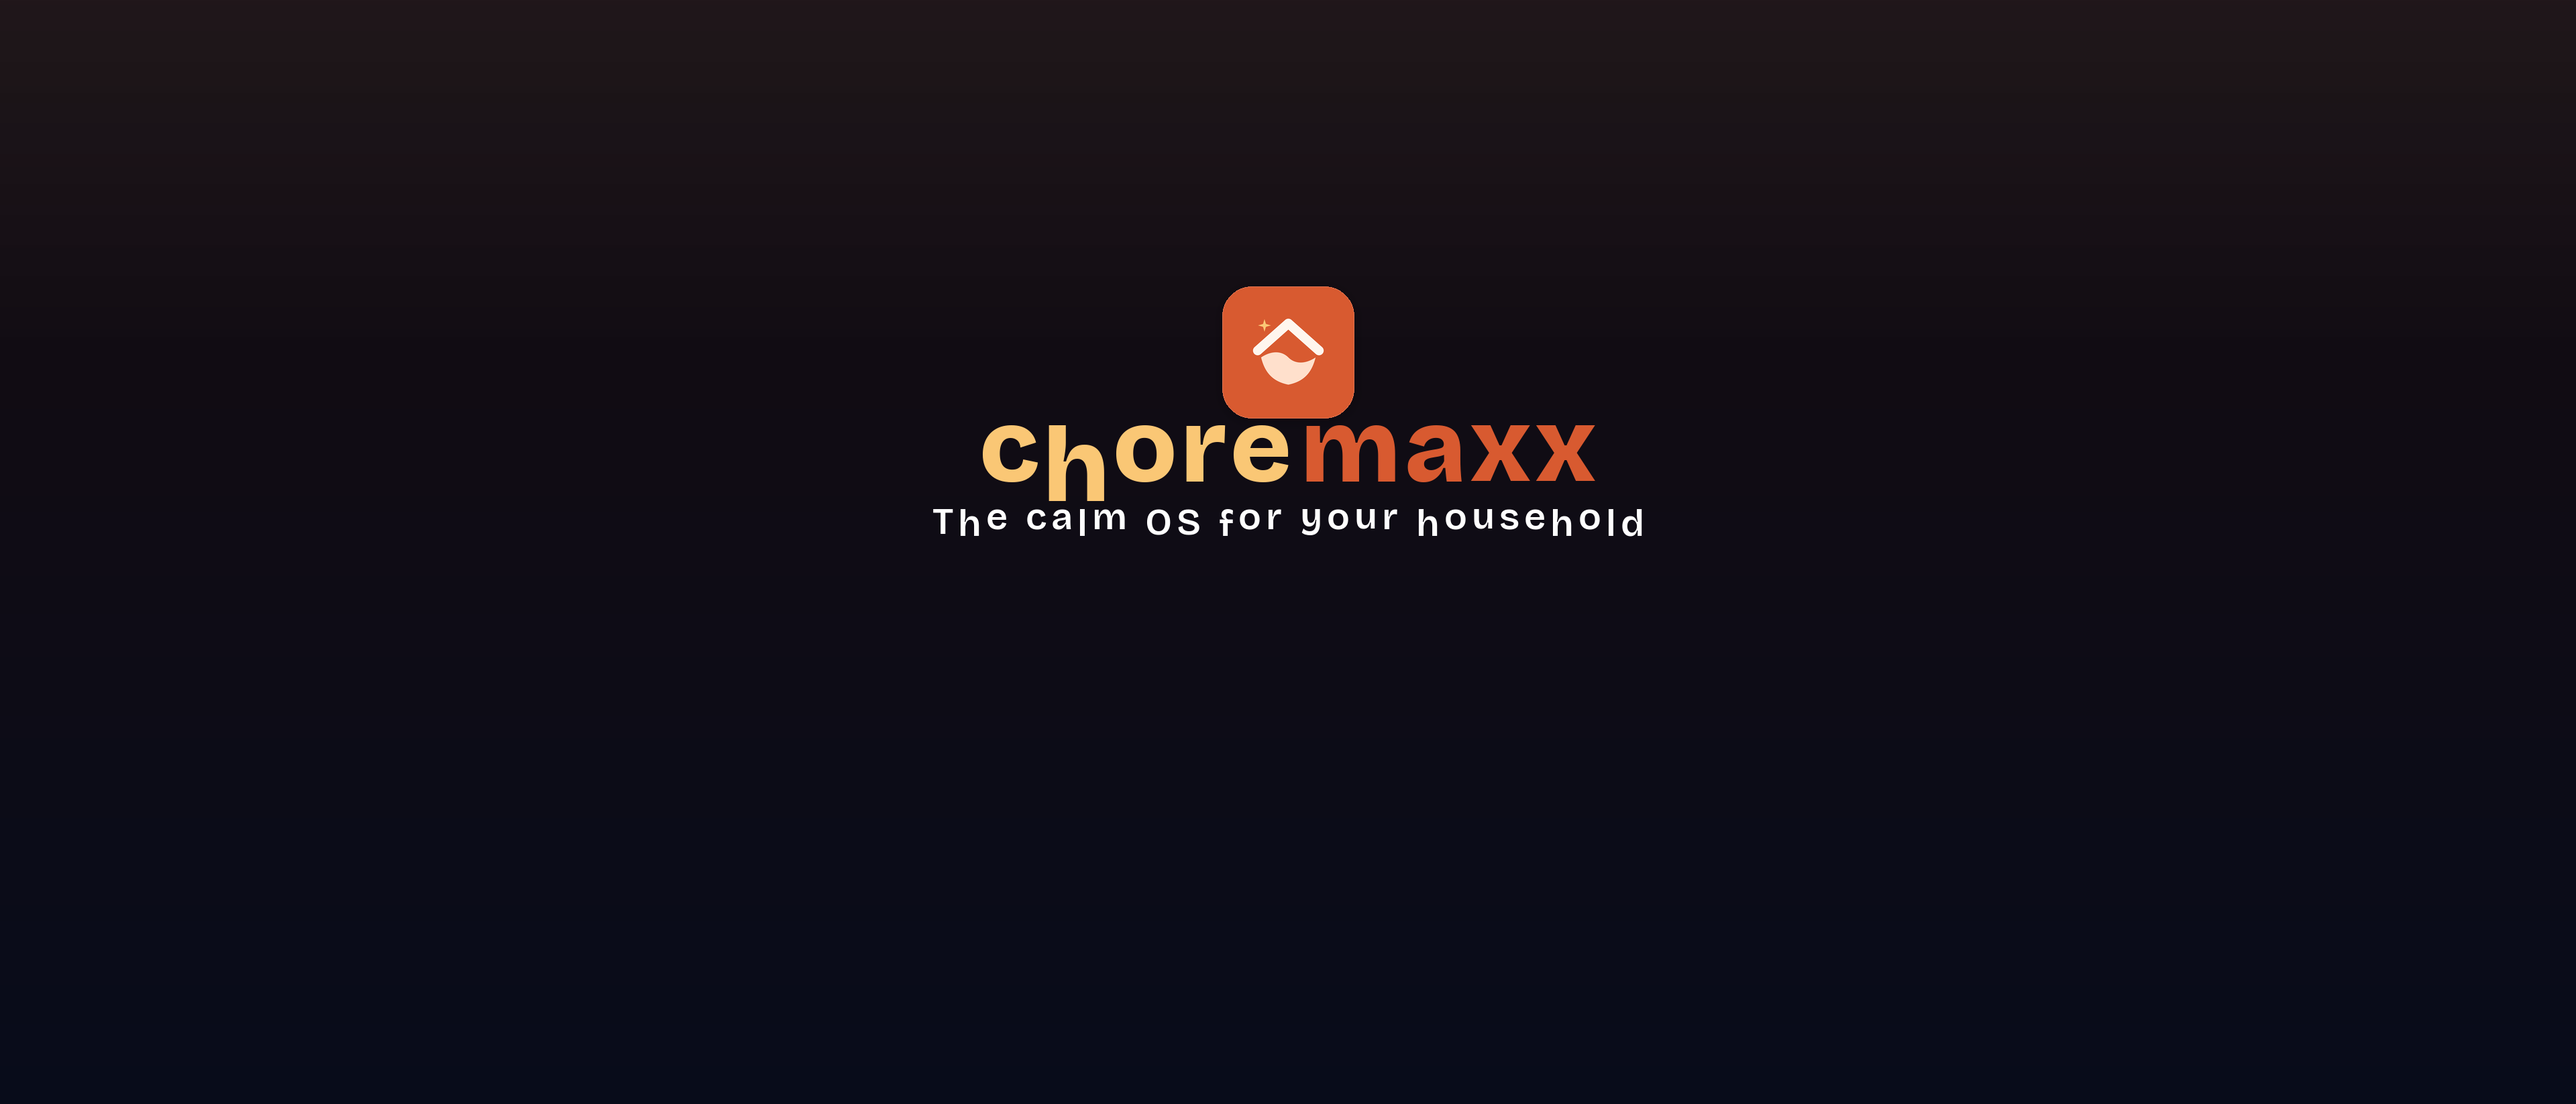
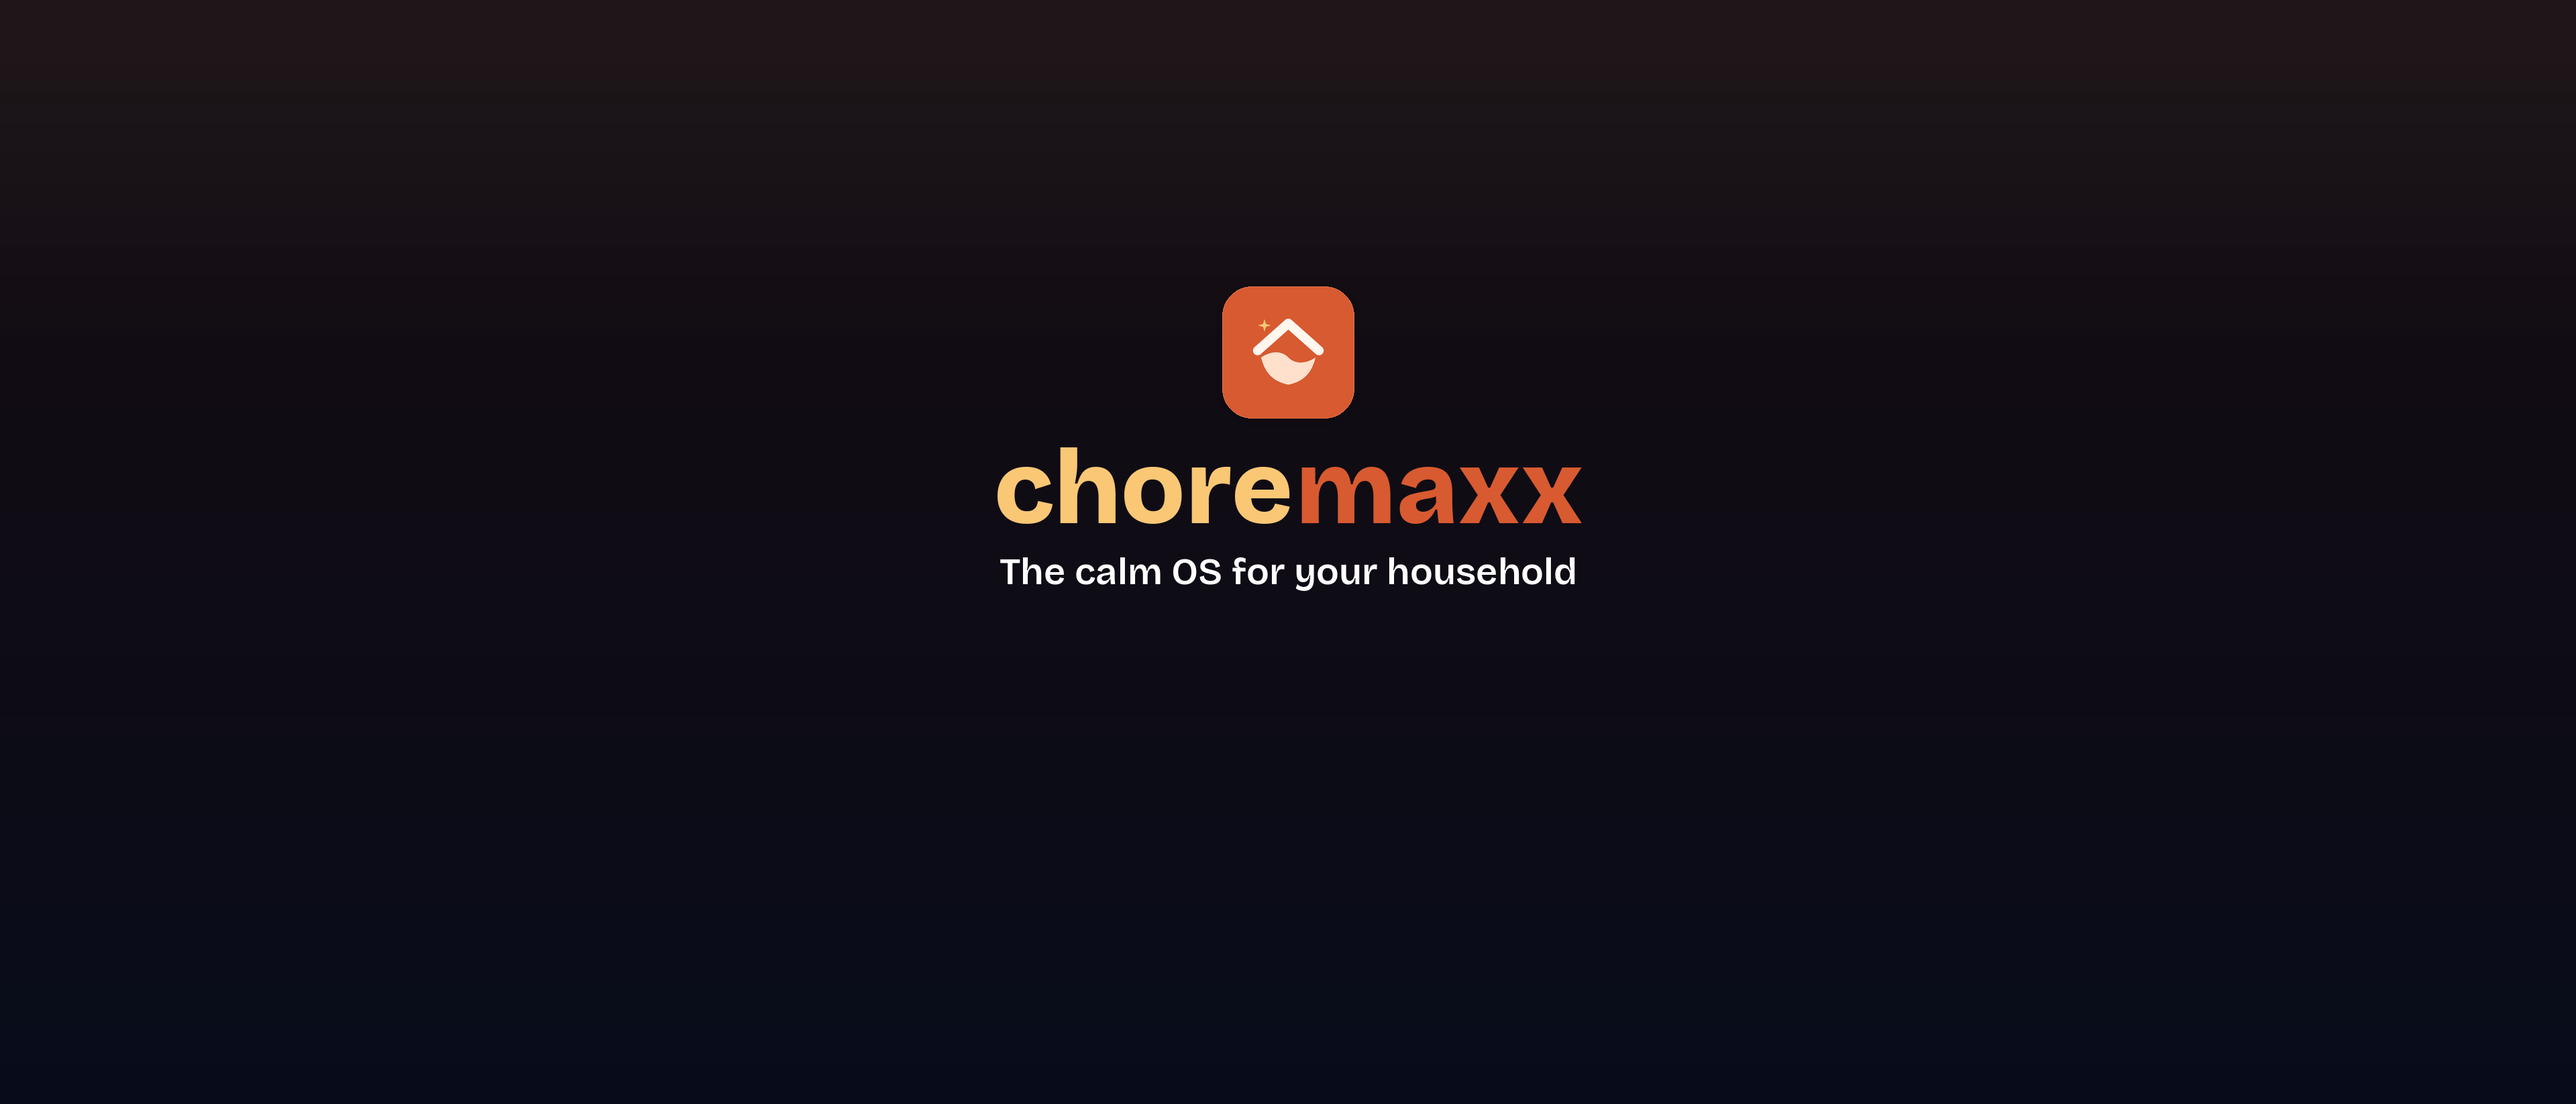
Fix ASC header: normal kerning; more space between wordmark and tagline

Changed region(s): [[0.375, 0.3718, 0.6562, 0.5267]]

diff --git a/scripts/_asc_product_page_render.py b/scripts/_asc_product_page_render.py
@@ -172,43 +172,12 @@ def fit_title(max_width: int, h: int) -> tuple[ImageFont.FreeTypeFont, int]:
     return font(FONT_XB, 40), 40
 
 
-def draw_tracked(
-    draw: ImageDraw.ImageDraw,
-    text: str,
-    xy: tuple[int, int],
-    fnt: ImageFont.FreeTypeFont,
-    fill,
-    tracking: float,
-) -> tuple[int, int]:
-    """Draw text with letter-spacing; returns (width, height)."""
-    x, y = xy
-    max_h = 0
-    cursor = x
-    for i, ch in enumerate(text):
-        bb = fnt.getbbox(ch)
-        cw, ch_h = bb[2] - bb[0], bb[3] - bb[1]
-        draw.text((cursor - bb[0], y - bb[1]), ch, font=fnt, fill=fill)
-        cursor += cw + (0 if i == len(text) - 1 else tracking)
-        max_h = max(max_h, ch_h)
-    return cursor - x, max_h
-
-
-def tracked_width(text: str, fnt: ImageFont.FreeTypeFont, tracking: float) -> int:
-    total = 0
-    for i, ch in enumerate(text):
-        bb = fnt.getbbox(ch)
-        total += bb[2] - bb[0]
-        if i < len(text) - 1:
-            total += tracking
-    return total
-
-
 def compose_header(w: int, h: int) -> Image.Image:
     """Header only: small coral icon + choremaxx + tagline. No glow blooms.
 
     Sit in the mid dark band: below iPad/Apps chrome + Dynamic Island, above
-    the product-page white sheet. Tracked type + soft icon edge for a calmer
-    premium lockup.
+    the product-page white sheet. Natural type kerning; extra vertical space
+    between the wordmark and the tagline only.
     """
     img = paint_background(w, h, quiet=True).convert("RGBA")
     d = ImageDraw.Draw(img)
@@ -228,19 +197,16 @@ def compose_header(w: int, h: int) -> Image.Image:
     f_sub = font(FONT_SB, max(22, int(title_size * 0.36)))
     sub = "The calm OS for your household"
 
-    title_track = max(1, int(title_size * 0.035))
-    sub_track = max(1, int(title_size * 0.045))
-    word_gap = max(6, int(title_size * 0.08))  # air between chore | maxx
-
-    chore_w = tracked_width("chore", f_title, title_track)
-    maxx_w = tracked_width("maxx", f_title, title_track)
-    _, title_h, _ = text_size(f_title, "chore")
-    sub_w = tracked_width(sub, f_sub, sub_track)
-    _, sh_sub, _ = text_size(f_sub, sub)
+    chore_w, title_h, _ = text_size(f_title, "chore")
+    maxx_w, _, _ = text_size(f_title, "maxx")
+    # Tiny join between chore|maxx — normal kerning, not letter-spaced
+    word_gap = max(1, int(title_size * 0.02))
     total_w = chore_w + word_gap + maxx_w
+    sw, sh_sub, sbb = text_size(f_sub, sub)
 
     gap_icon_title = int(h * 0.028)
-    gap_title_sub = int(title_size * 0.42)
+    # Vertical breathing room between "choremaxx" and the calm-OS line
+    gap_title_sub = int(title_size * 0.70)
     stack_h = icon_size + gap_icon_title + title_h + gap_title_sub + sh_sub
 
     # iPad Apps pill + island cover ~top 22–26%; white sheet from ~48%.
@@ -249,8 +215,8 @@ def compose_header(w: int, h: int) -> Image.Image:
     stack_top = band_top + max(0, (band_bottom - band_top - stack_h) // 2)
     if stack_top + stack_h > band_bottom:
         overflow = stack_top + stack_h - band_bottom
-        gap_icon_title = max(10, gap_icon_title - overflow // 2)
-        gap_title_sub = max(8, gap_title_sub - overflow // 2)
+        gap_icon_title = max(10, gap_icon_title - overflow // 3)
+        gap_title_sub = max(int(title_size * 0.45), gap_title_sub - overflow // 2)
         stack_h = icon_size + gap_icon_title + title_h + gap_title_sub + sh_sub
         stack_top = band_top + max(0, (band_bottom - band_top - stack_h) // 2)
 
@@ -284,11 +250,11 @@ def compose_header(w: int, h: int) -> Image.Image:
 
     title_x = cx - total_w // 2
     title_y = icon_top + icon_size + gap_icon_title
-    draw_tracked(d, "chore", (title_x, title_y), f_title, GOLD, title_track)
-    draw_tracked(d, "maxx", (title_x + chore_w + word_gap, title_y), f_title, CORAL, title_track)
+    d.text((title_x, title_y), "chore", font=f_title, fill=GOLD)
+    d.text((title_x + chore_w + word_gap, title_y), "maxx", font=f_title, fill=CORAL)
 
     sub_y = title_y + title_h + gap_title_sub
-    draw_tracked(d, sub, (cx - sub_w // 2, sub_y), f_sub, (255, 255, 255, 230), sub_track)
+    d.text((cx - sw // 2 - sbb[0], sub_y), sub, font=f_sub, fill=WHITE)
 
     return img.convert("RGB")
 
